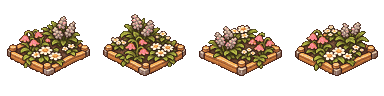
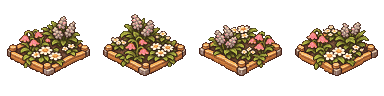
Square the two angled flower beds against their corner posts

Changed region(s): [[0.5, 0.25, 0.8438, 0.7812], [0.9375, 0.3125, 1.0, 0.6562]]

diff --git a/PROGRESS.md b/PROGRESS.md
@@ -1,11 +1,11 @@
-# 1.25.63　牧場の道と装飾の角度（ベンチの原画を保存）
+# 1.25.63　牧場の道と装飾の角度（原画の角度を確認）
 
 - 対象バージョン　1.25.62 → 1.25.63。開始時のmainは `7a09682`。
 - 保存先　`art/garden-angle-1.25.63` の `assets/town-buildings/`、`PROGRESS.md`。配布物と確認画像は `releases/1.25.63/`。
-- 完了事項　木のベンチ4方向の背板とひじ掛けを、道の横2・縦1の傾きに合わせた。元の配色と各方向の彫刻を使用。
-- 確認結果　背板の外縁とひじ掛けの画素を測定。4方向とも傾きの中央値は左右の道と同じ±0.5。前版の背板は絶対値0.27〜0.31。各原画は128px四方に収まる。
-- 残作業　花壇の杭を補正し、敷物・街灯を照合。ベンチの足元の基準を通常版と軽量版に反映して動作確認・公開。
-- 次の操作　花壇の上向きと右向きの左右の杭をそろえる。
+- 完了事項　木のベンチ4方向を修正（e7b922e）。お花畑は上向き・右向きの左右の杭を1〜3画素調整した。敷物と街灯は公開中の原画を使用。
+- 確認結果　花壇は3本の杭の天面、敷物は房の先端、街灯は石台の左右の縁を全方向で実測。花壇・敷物・街灯はいずれも等倍表示で1画素以内。ベンチの背板・ひじ掛けの傾きの中央値は4方向とも±0.5。
+- 残作業　両方のゲームに組み込み、足元の位置、旧セーブ、建築メニュー、配置・選択を確認し公開する。
+- 次の操作　ベンチの支点を4表示画素調整して通常版・軽量版を作成し、牧場で左右を撮影する。
 
 # 1.25.62　牧場の装飾4種の描き直し（公開済み）
 
